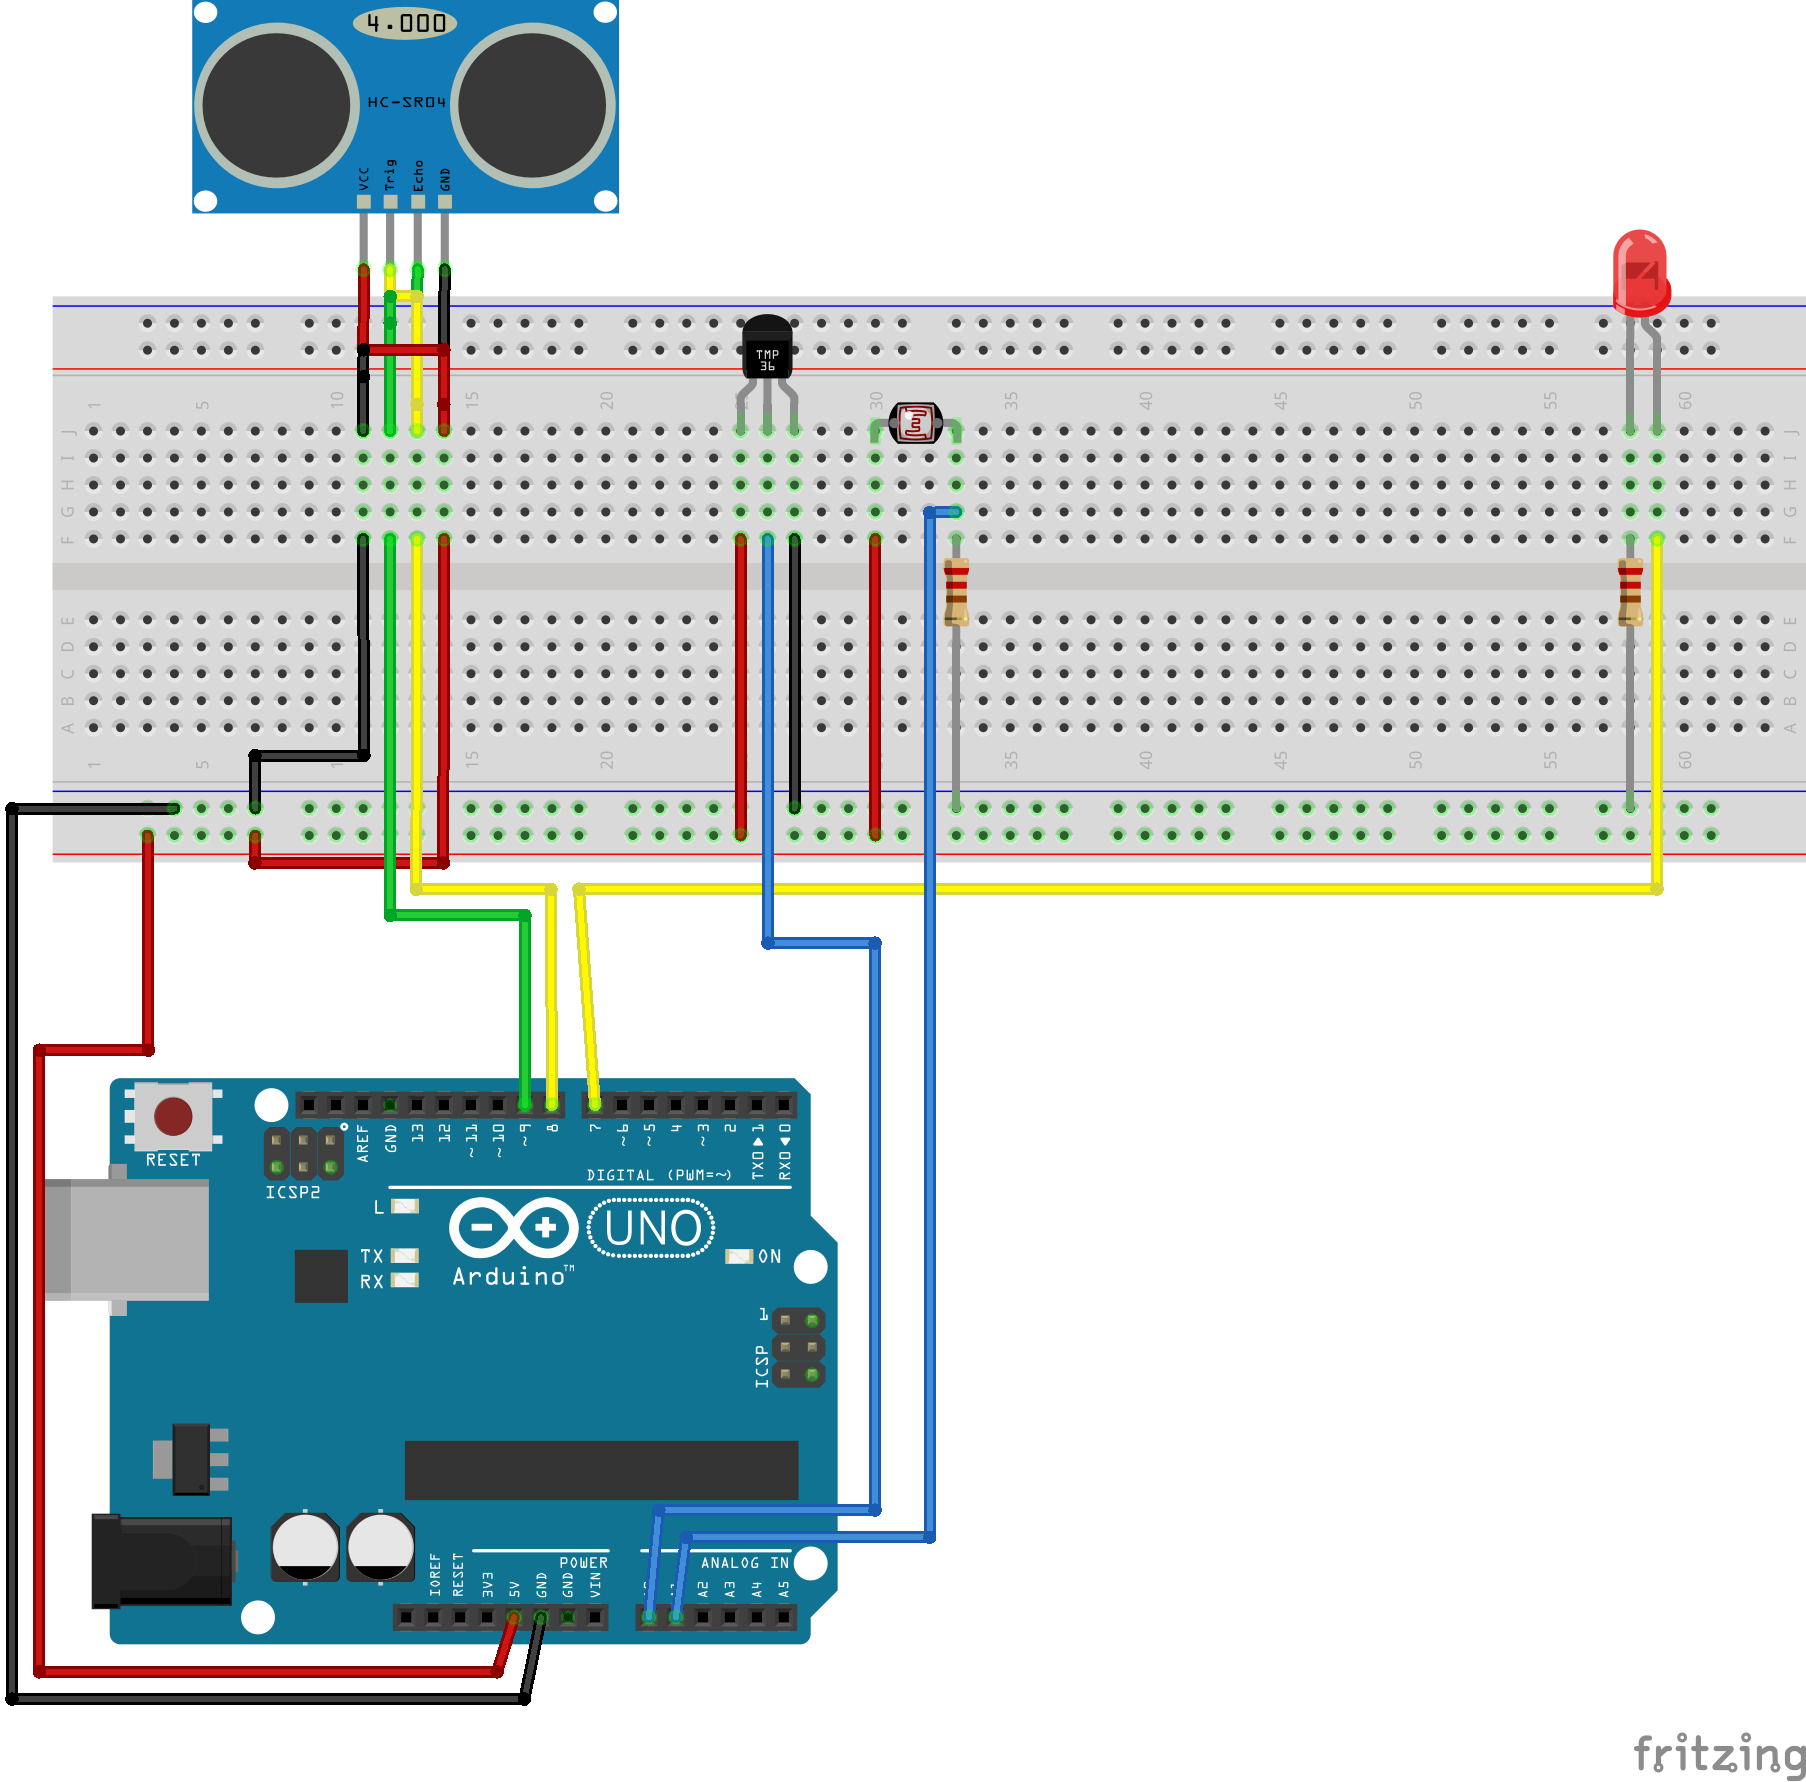
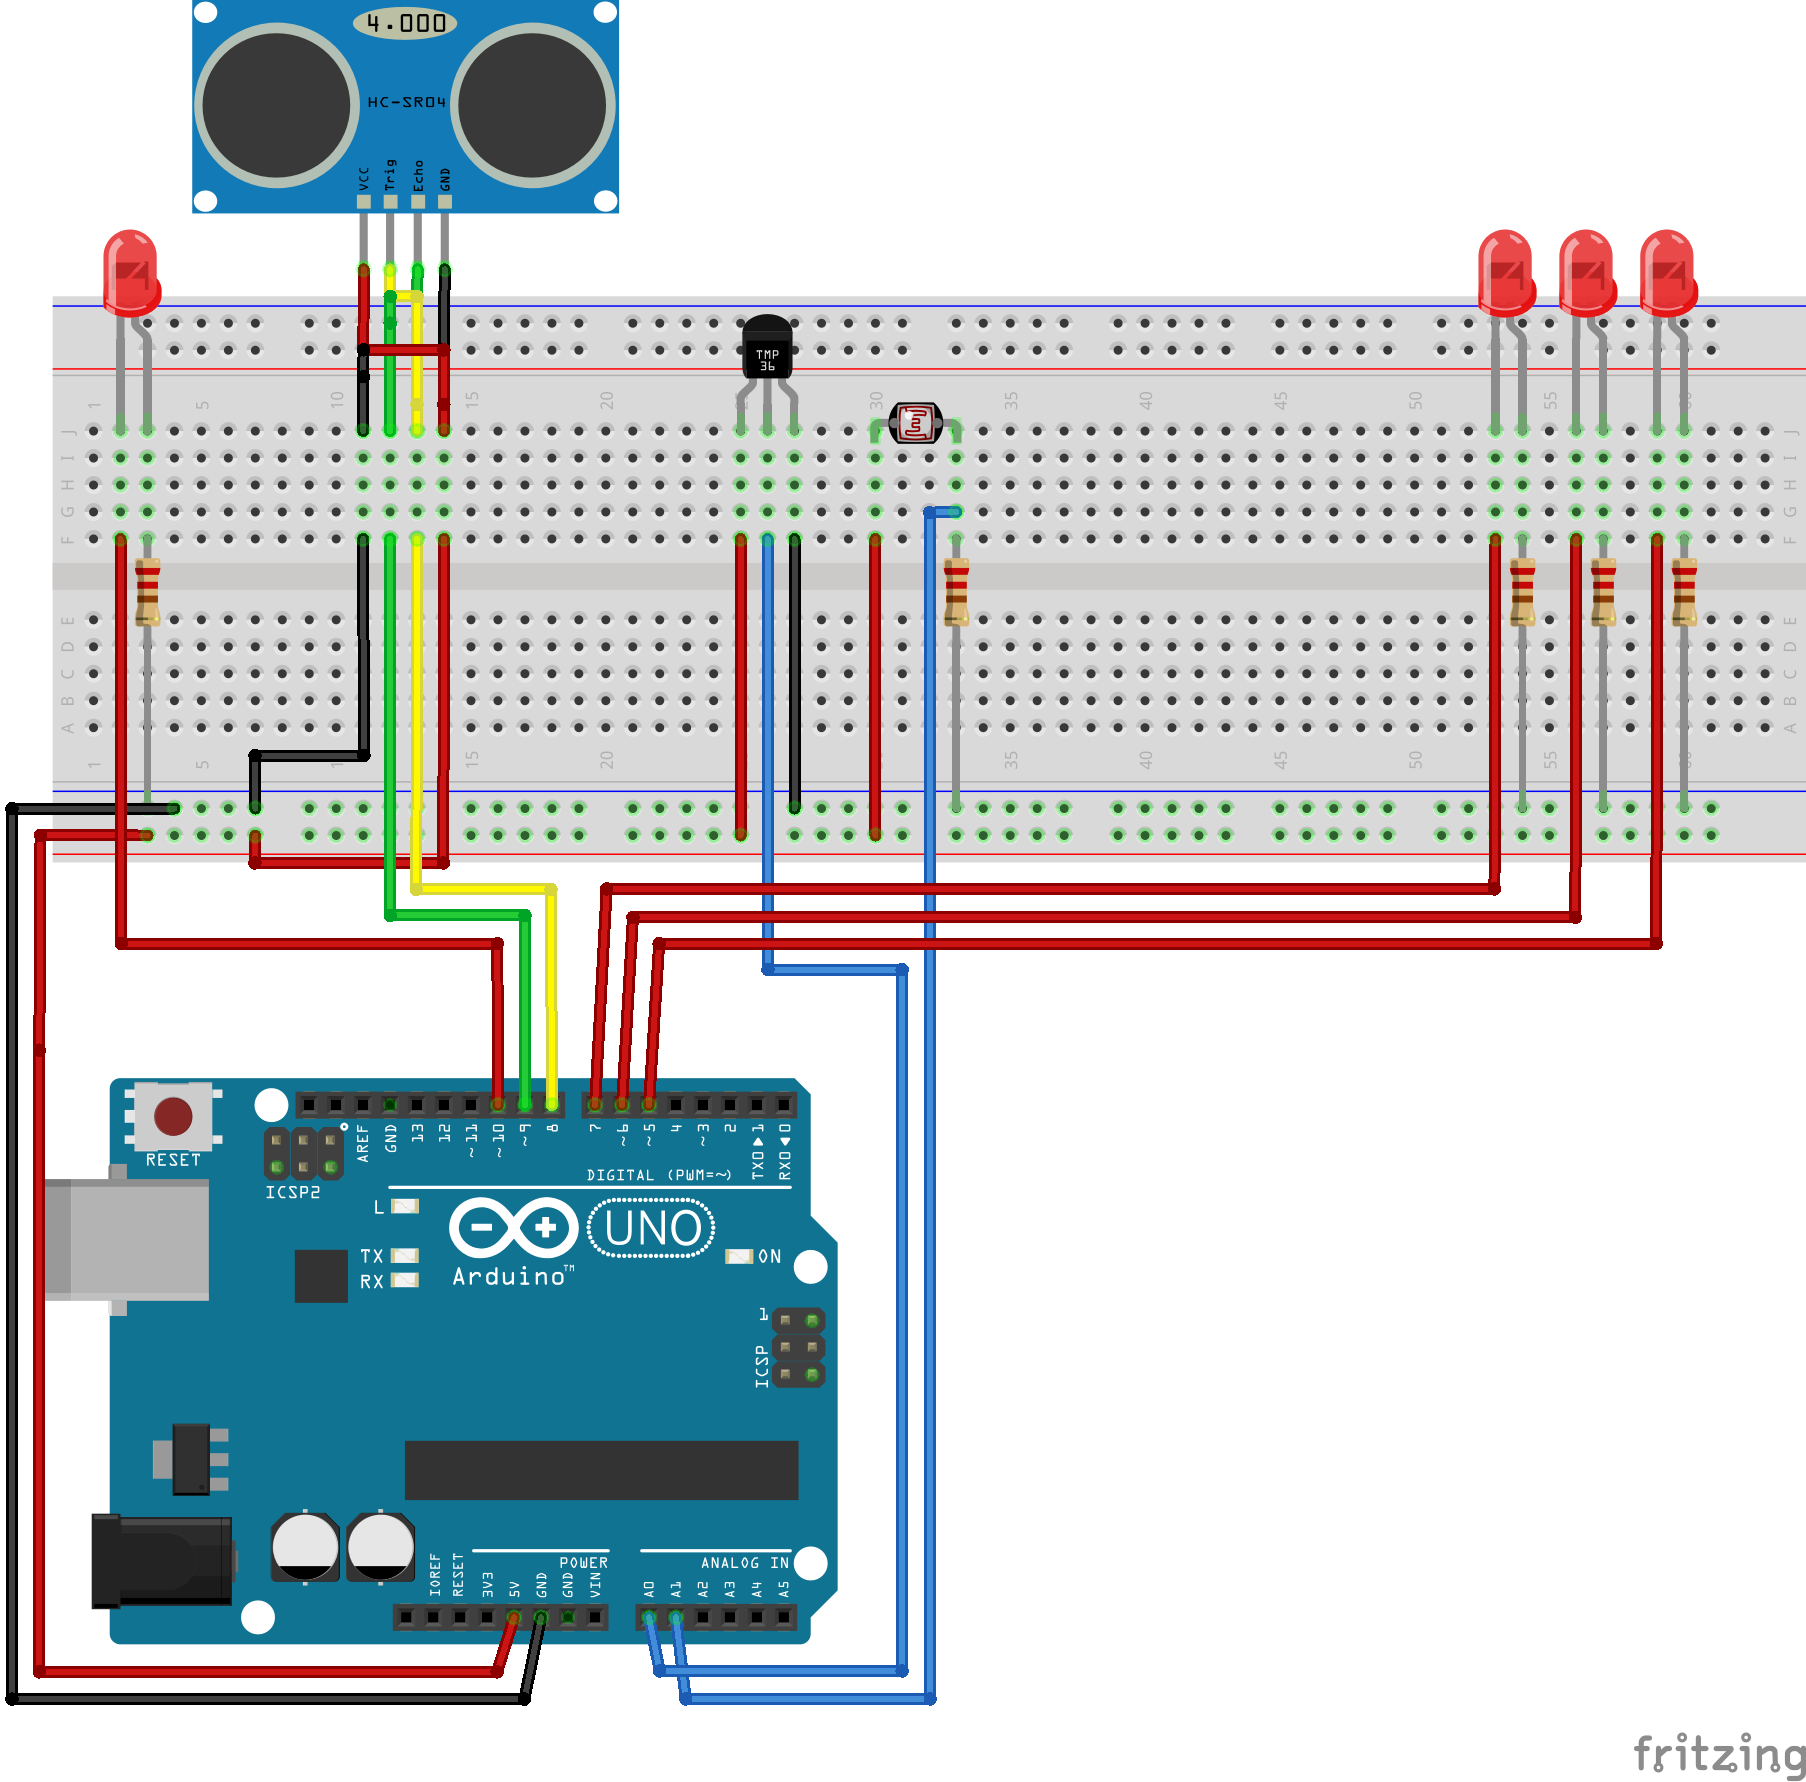
Autonomous v2

Changed region(s): [[0.3101, 0.1235, 0.9612, 0.9568], [0.0, 0.1235, 0.2791, 0.6173]]

diff --git a/C/sunscreen.c b/C/sunscreen.c
@@ -186,3 +186,15 @@ void auto_light()
 		serial_write(0x02);
 	}
 }
+
+void auto_sonar()
+{
+	if (get_sonar_distance() > get_sunscreen_max_extend())
+	{
+		PORTB |= (1 << PORTB2);
+	}
+	else if (get_sonar_distance() < get_sunscreen_min_extend())
+	{
+		PORTB &= ~(1 << PORTB2);
+	}
+}

diff --git a/C/sonar.c b/C/sonar.c
@@ -25,7 +25,7 @@ uint32_t countTimer0 = 0;					// 32-bit counter to save overflows from counter0
 
 void sonar_init()
 {
-	DDRB |= (1 << PORTB0);					// Initializing HC-SR04 pins
+	DDRB |= (1 << PORTB0)|(1 << PORTB2);					// Initializing HC-SR04 pins
 	DDRB &= ~(1 << PORTB1);
 }
 

diff --git a/C/main.c b/C/main.c
@@ -30,6 +30,7 @@ void setup()
 	
 	// Tasks
 	sch_add_task(get_commands, 0, 1);
+	sch_add_task(auto_sonar, 0, 1000);
 	sch_add_task(auto_light, 0, 30000);
 	sch_add_task(auto_temp, 0, 40000);
 	

diff --git a/C/sunscreen.h b/C/sunscreen.h
@@ -29,5 +29,6 @@ void sunscreen_extend();
 void sunscreen_retract();
 void auto_temp();
 void auto_light();
+void auto_sonar();
 
 #endif
